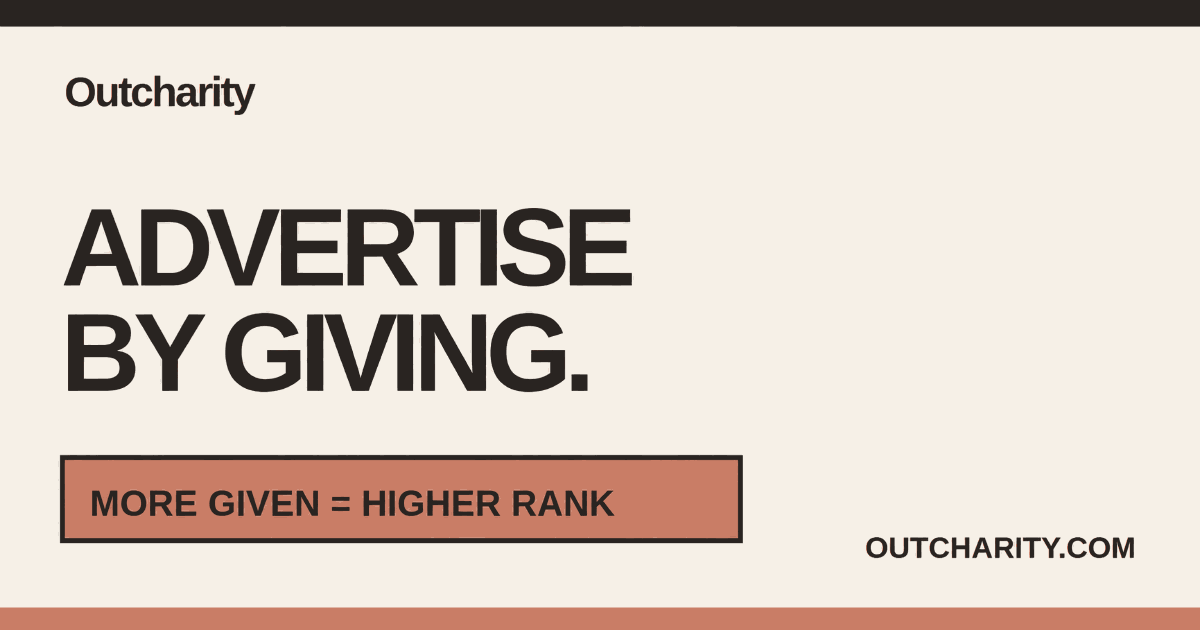
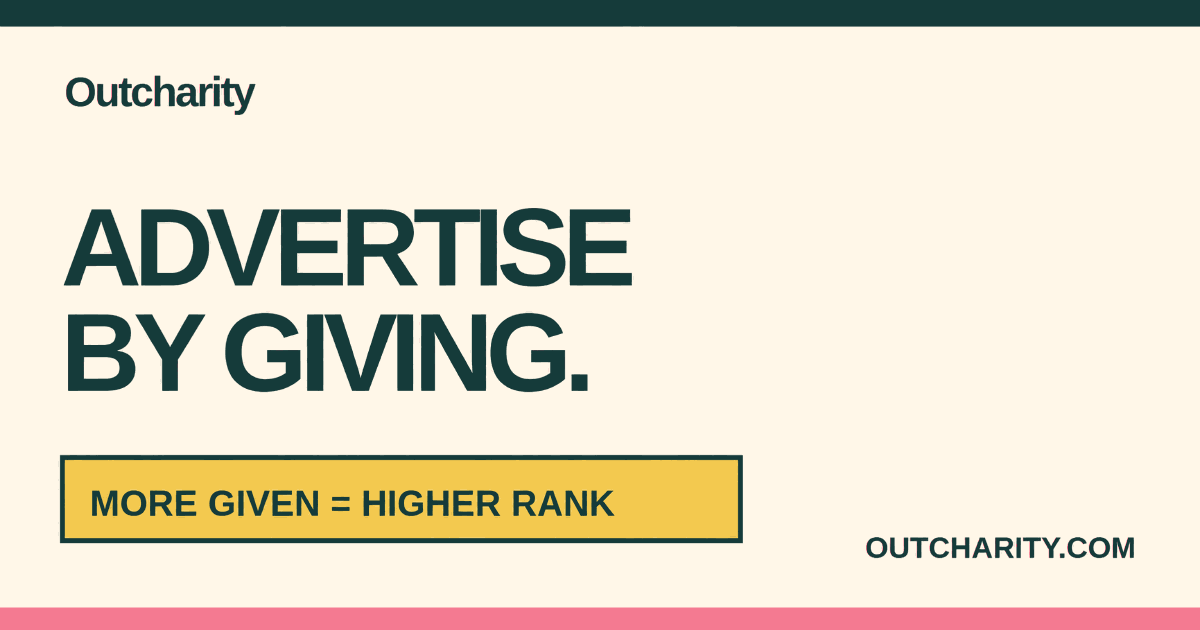
Brighten color system with teal, gold, and raspberry

diff --git a/test/config-and-views.test.js b/test/config-and-views.test.js
@@ -1053,7 +1053,7 @@ test('the help and stats routes are public, canonical, and listed in the sitemap
   assert.equal(prepareCalls, 1, 'the sitemap must not query D1');
 });
 
-test('the warm visual system preserves its palette, typography, and compact mobile entries', () => {
+test('the bright warm visual system preserves its palette, typography, and compact mobile entries', () => {
   const styles = readFileSync(new URL('../public/styles.css', import.meta.url), 'utf8');
   const mobileStart = styles.indexOf('@media (max-width: 760px)');
   const mobileEnd = styles.indexOf('@media (max-width: 350px)');
@@ -1070,18 +1070,18 @@ test('the warm visual system preserves its palette, typography, and compact mobi
     mobileStyles.match(/\.leader-runners \.listing-logo\s*\{([^}]*)\}/)?.[1] || '';
 
   for (const token of [
-    '--ink: #292421',
-    '--paper: #f6f0e7',
-    '--card: #fffbf5',
-    '--signal: #c97d66',
-    '--signal-dark: #854535',
-    '--sun: #e5d4ad',
-    '--warm: #f1ded3',
-    '--muted: #6a605a',
-    '--line: #cbbeb1',
-    '--success: #3f6850',
-    '--error: #9a4138',
-    '--focus: #2c668f',
+    '--ink: #153b3a',
+    '--paper: #fff7e8',
+    '--card: #ffffff',
+    '--signal: #f47a91',
+    '--signal-dark: #9d2748',
+    '--sun: #f3c94f',
+    '--warm: #f9dce5',
+    '--muted: #536663',
+    '--line: #a8bdb8',
+    '--success: #16705a',
+    '--error: #b13e52',
+    '--focus: #1769aa',
     '--font-body: "Avenir Next", Avenir, "Segoe UI", ui-sans-serif, system-ui, sans-serif',
     '--font-display: Charter, "Iowan Old Style", "Palatino Linotype", Palatino, Georgia, ui-serif, serif',
   ]) {

diff --git a/public/styles.css b/public/styles.css
@@ -1,29 +1,29 @@
 :root {
   color-scheme: light;
-  --ink: #292421;
-  --paper: #f6f0e7;
-  --card: #fffbf5;
-  --card-hover: #fffdf9;
+  --ink: #153b3a;
+  --paper: #fff7e8;
+  --card: #ffffff;
+  --card-hover: #fffcf5;
   --white: #ffffff;
-  --signal: #c97d66;
-  --signal-dark: #854535;
-  --signal-hover: #d7927d;
-  --sun: #e5d4ad;
-  --sun-soft: #f3e7ca;
-  --sun-hover: #eedcb5;
-  --warm: #f1ded3;
-  --warm-hover: #ecd3c7;
-  --muted: #6a605a;
-  --line: #cbbeb1;
-  --shadow: #d9cec2;
-  --shadow-strong: #c5b8ab;
-  --neutral: #ece5dc;
-  --highlight: #e2c88e;
-  --success: #3f6850;
-  --success-soft: #e5eee7;
-  --error: #9a4138;
-  --error-soft: #f4e2de;
-  --focus: #2c668f;
+  --signal: #f47a91;
+  --signal-dark: #9d2748;
+  --signal-hover: #ff91a5;
+  --sun: #f3c94f;
+  --sun-soft: #fff0b2;
+  --sun-hover: #ffdc68;
+  --warm: #f9dce5;
+  --warm-hover: #f6cad7;
+  --muted: #536663;
+  --line: #a8bdb8;
+  --shadow: #c9d8d3;
+  --shadow-strong: #9cb6b0;
+  --neutral: #e9f0ed;
+  --highlight: #efb83e;
+  --success: #16705a;
+  --success-soft: #ddf2e8;
+  --error: #b13e52;
+  --error-soft: #f9e1e5;
+  --focus: #1769aa;
   --font-body: "Avenir Next", Avenir, "Segoe UI", ui-sans-serif, system-ui, sans-serif;
   --font-display: Charter, "Iowan Old Style", "Palatino Linotype", Palatino, Georgia, ui-serif, serif;
   font-family: var(--font-body);

diff --git a/PLAN.md b/PLAN.md
@@ -631,3 +631,22 @@ guarantee against every charge.
 Exit: Production makes the current 95/5 promise exact from Checkout through delivery, preserves
 historical allocations truthfully, and presents the warmer visual identity at all public brand
 surfaces.
+
+## Phase 13 — Brighter color correction
+
+- [x] Preserve the approved typography, layout, copy, and 95/5 behavior; change only the visual
+  color system and its matching brand assets.
+- [x] Replace the rejected muted terracotta, sand, and cocoa palette with deep teal, vivid
+  raspberry, sunny gold, warm cream, and clean white across the stylesheet, favicon, and social
+  preview. Keep the social preview's exact text, composition, and 1200 × 630 dimensions.
+- [x] Update the palette-locking test and run focused and full verification.
+  - The focused visual-system test and all 94 tests pass; JavaScript syntax checking,
+    `git diff --check`, and the dotenv-isolated dry production build pass. The build is 855.76 KiB
+    raw / 123.00 KiB compressed.
+  - All 16 tested normal-text color pairs meet WCAG AA contrast. The lowest ratio is 4.68:1 for
+    deep-teal text on the raspberry action color.
+  - The final social preview was visually inspected at its original 1200 × 630 dimensions.
+
+Exit: The local site uses a bright, unmistakably different warm palette without changing its
+typography, layout, content, payment behavior, or production configuration. Production deployment
+remains a separate explicit action.
